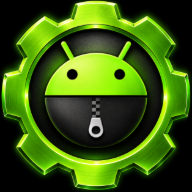
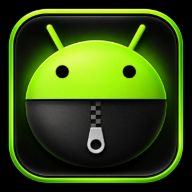
Icône de l'appli : nouvelle image
Publié depuis AppMod par admin@modprod.app

diff --git a/index.html b/index.html
@@ -7,8 +7,8 @@
 <meta name="description" content="Createur d’applications Android : APK signés (site web, HTML, lanceur AndroidTv)">
 <meta name="theme-color" content="#141a21">
 <link rel="manifest" href="manifest.webmanifest">
-<link rel="icon" type="image/png" href="icons/icon-192.png?v=2026-11-02.1">
-<link rel="apple-touch-icon" href="icons/apple-180.png?v=2026-11-02.1">
+<link rel="icon" type="image/png" href="icons/icon-192.png?v=2026-11-03.1">
+<link rel="apple-touch-icon" href="icons/apple-180.png?v=2026-11-03.1">
 <link rel="preconnect" href="https://fonts.googleapis.com">
 <link rel="preconnect" href="https://fonts.gstatic.com" crossorigin>
 <link href="https://fonts.googleapis.com/css2?family=Chakra+Petch:wght@600;700&family=IBM+Plex+Sans:wght@400;600&display=swap" rel="stylesheet">
@@ -660,7 +660,7 @@ nav.bottom .ico{font-size:20px;line-height:1}
    }
    Ancien réglage encore lu : "construction": true (+ "constructionMsg") = mode construction.
    Utilisation :
-     ModProdTravaux.init({id: "monappli", name: "Mon appli", icon: "icons/icon-192.png",
+     ModProdTravaux.init({id: "monappli", name: "Mon appli", icon: "icons/icon-192.png?v=2026-11-03.1",
                           site: "https://monappli.modprod.app/",   // où lire config-site.json (sinon la page courante)
                           fetch: true});                            // false = l'appli appelle elle-même ModProdTravaux.apply(config)
    Jamais bloquant : sans réseau, dernier état connu (cache) ; sans réglage, rien n'est affiché.
@@ -736,7 +736,7 @@ nav.bottom .ico{font-size:20px;line-height:1}
 
   function build(){
     box = el("div"); box.id = "mp-travaux"; box.setAttribute("role", "alert");
-    var top = el("div", "mpt-top"), ic = el("img"); ic.alt = ""; ic.src = opt.icon || "icons/icon-192.png";
+    var top = el("div", "mpt-top"), ic = el("img"); ic.alt = ""; ic.src = opt.icon || "icons/icon-192.png?v=2026-11-03.1";
     ic.onerror = function(){ ic.onerror = null; ic.remove(); };
     top.append(ic, el("span", "mpt-tag"));
     var mid = el("div", "mpt-mid"), gear = el("div", "mpt-gear"), gi = el("img"); gi.alt = ""; gi.src = IMG + "engrenage.webp";
@@ -802,12 +802,12 @@ nav.bottom .ico{font-size:20px;line-height:1}
 })();
 </script>
 <!-- MODPROD-TRAVAUX : fin -->
-<script>ModProdTravaux.init({id: "apk-factory", name: "APK Factory", icon: "icons/icon-192.png", site: "https://apk-factory.modprod.app/"});</script>
+<script>ModProdTravaux.init({id: "apk-factory", name: "APK Factory", icon: "icons/icon-192.png?v=2026-11-03.1", site: "https://apk-factory.modprod.app/"});</script>
 </head>
 <body>
 
 <header class="top">
-  <img id="logo" src="icons/icon-192.png?v=2026-11-02.1" alt="">
+  <img id="logo" src="icons/icon-192.png?v=2026-11-03.1" alt="">
   <h1 id="ttl">APK Factory</h1>
   <span class="badge" id="beta" hidden>BÊTA</span>
   <span class="hver" id="hver" hidden></span>

diff --git a/sw.js b/sw.js
@@ -1,6 +1,6 @@
 // Service worker des applis ModProd (modèle modprod-app-template).
 // VERSION est changée par la console quand elle publie de nouvelles icônes : ne pas renommer cette ligne.
-const VERSION = "2026-11-02.1";
+const VERSION = "2026-11-03.1";
 const CACHE = "apk-factory-" + VERSION;
 
 // Fichiers gardés pour le hors ligne. Sur Cloudflare Pages, la page se sert en "./" (pas de .html).
